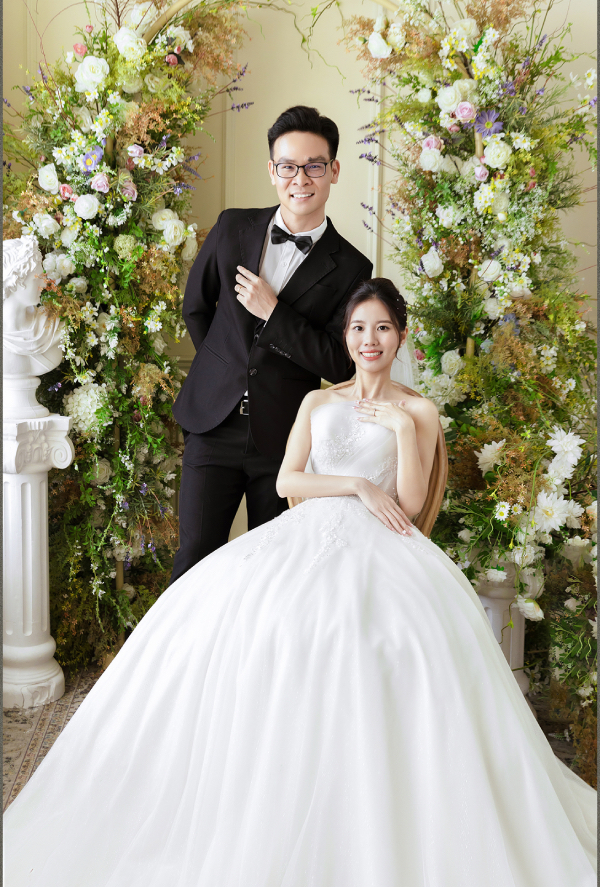
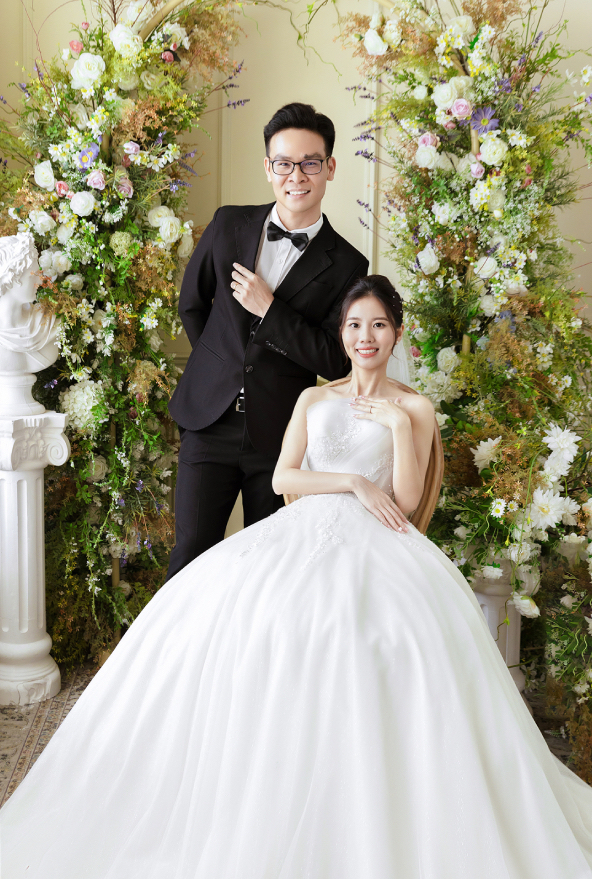
update

diff --git a/flutter_service_worker.js b/flutter_service_worker.js
@@ -4,8 +4,8 @@ const TEMP = 'flutter-temp-cache';
 const CACHE_NAME = 'flutter-app-cache';
 const RESOURCES = {
   "version.json": "961643e1794347654394bc9ce301c3ad",
-"index.html": "374eca92d2e11b28caa651ae958f8b34",
-"/": "374eca92d2e11b28caa651ae958f8b34",
+"index.html": "abbdbd453d43ea85151f2ba1e7af94f4",
+"/": "abbdbd453d43ea85151f2ba1e7af94f4",
 "CNAME": "ba9c0d3a643646bf22b8cea7f6e40133",
 "main.dart.js": "31475105a1cf899c11662672a96026b6",
 "flutter.js": "a85fcf6324d3c4d3ae3be1ae4931e9c5",
@@ -18,11 +18,14 @@ const RESOURCES = {
 ".git/ORIG_HEAD": "1167dd309fb1e1fefc487935df9a1709",
 ".git/config": "d6e0f053cf263d6b70e9ffb6627ea196",
 ".git/objects/92/8727b95cc90c4859fbdf2fc7ec668834670070": "b2a6c5a339dc36253af7ad6574da49ea",
+".git/objects/02/bc1f1e0b1ac5f427b7909b22cf39cc24241bce": "061809a41ebb6bc111f6233ca5487741",
 ".git/objects/ac/15598e1d40a23b50c9193f537a9e867f420ce2": "932a8b48ea65cb2c2908d5fef5b5eb29",
 ".git/objects/ad/97025017b4e41db92f855ba934337515b2089a": "432c3c691d3a14fcd976e2f656c4593a",
 ".git/objects/d0/b03da541907a0e92fddb02763dcd7ee433a947": "bb94fc34097442f6d0a3faaed2753dd8",
+".git/objects/bc/9c16fbdb467b7826d3cc5615646a9b611c8645": "28f9a20f47befdcd51357e7c7c0ebc93",
 ".git/objects/ae/a466f5fd16d231d1e82a301a2addb8f56315d8": "dde20aebc0ea540e788653fdd064b906",
 ".git/objects/e2/dcdcae971cb85ad1948e0473b9f1be5d248238": "32f1aace60653b7bc57888308cfcc56f",
+".git/objects/eb/df2bf3b774019c7aa18e2c23744f640070893d": "37a68fb85ef3f99cbbf26ee62ffa6a73",
 ".git/objects/ee/9ce656ec5c74b51966368c488b8477cfdcf252": "bcb35e2ce762fe7891f49722702bfb10",
 ".git/objects/c9/c631da375ae18bae9acc88d015654050b2afb4": "40ada6ed67e4212ce143aa7bf2ec14eb",
 ".git/objects/fd/28bef01570880d3395b7e0d2021926e640b42c": "18b3c5aadfd1ea0f9b52fbc624fe5610",
@@ -30,18 +33,27 @@ const RESOURCES = {
 ".git/objects/pack/pack-a6ade3d9ec6754b53d88945e8d0eef39a2f504f0.pack": "09df9f85f84b0997eedca773e5f0d41a",
 ".git/objects/pack/pack-a6ade3d9ec6754b53d88945e8d0eef39a2f504f0.idx": "68b8ea27a3bd068bfd2953e13e3d6ec8",
 ".git/objects/11/f7d32a385d322d3783e94bcb5f65046383a81a": "0814a06ed8ac004e8034c6874d560280",
+".git/objects/42/46d382c3ce28e4d67728a9db7dd7f7ebcd61db": "6591a0b139dadc0b15ca034d2b571984",
 ".git/objects/42/e03dc198dbc7fec8acf30e5de79bfd4b0abbc6": "03fa9a6749bb5529c115098eeb90a0d3",
 ".git/objects/87/f0737e4a0b5b00b6f391eed2310431fe1d5db0": "92ae55562305555afcdff4f426d528a7",
 ".git/objects/7e/83ca277cabca3f3610057457ff8323a26f4f2f": "780839bea24bc5c002d5806f6aabd842",
 ".git/objects/7e/6bbbdfd9bf8397d2a52ebed31b5dba6bad4985": "262e33fb7a58e029419dee2e08e9e425",
 ".git/objects/26/5612b5937754d06ddcd0bc1df5f929c5441c72": "88a35c3d4e88858903552977e2d780db",
+".git/objects/4d/8da0f48dbda29da04d330167ab07850b09a556": "2bcca7383d97ca7178a04b5169ae9662",
+".git/objects/75/c6e78f70f47928679d7febe0d8fa40780bd7a2": "5d733c898923c225899c291bf9cd1256",
+".git/objects/00/e17a54dcf74810915438910a0ecc4555275ac5": "cf23c291c979fd80d2de03c2aa1ce141",
 ".git/objects/00/492e3b0c6423664dc44c0041cadd29e253e902": "9bc1384d3a25185096ede519eb22f7b5",
 ".git/objects/91/483f9034620ebe41b45c81417ad9f818c80f4c": "a5c05f2dd46f86ececa5e64535dcef98",
 ".git/objects/62/d4923eb4291198f3371ebb146a3132c7ffe5bc": "d72f9598493361b8865c69f87ef426bb",
 ".git/objects/37/56b93c77ffe5795c5f49e0a7eb9fe897dd3148": "3df3d8eb74699a84cb4557ef49ffabbf",
+".git/objects/06/1cce3f2e0bc74f8ec932b039b874cb453d1bfa": "0606933127f3c3e1b435cc4df27c3a3c",
+".git/objects/99/b7561564fa7fc1010fa4e00f690c2bd734606c": "486843fe6e3a37e3f7d7d3a7eda476a2",
+".git/objects/64/7760274cd4f89e0ff77e5972a935af152d360b": "81705f9fa46715c74bcf572ec39057a7",
+".git/objects/90/be18c811175cb4f6ecab8da00515f82a54de39": "2f33a714dd24794f7aee74ccf0f26938",
 ".git/objects/a6/6410e9400328989b3595450253809dd0a0d245": "0bef5baa12592eff521e4a74e5e360f7",
 ".git/objects/a1/398b338084cbaf0e99d89cb6089715baa78a6d": "02dc4e91b5e7a3ec6ab241de1c601d92",
 ".git/objects/ea/895a4223dae62f80b7a3bacf34bdb8c119e175": "d330913f13ed341669b62b2ee44a550e",
+".git/objects/cc/5a7ba3265d2b73ee48a3d5e659c513c9d03200": "9ccd05edce4cf47292ed0a0f8ce7d4a0",
 ".git/objects/e6/4a072279a64f194083ecc3bd78610b8a915963": "ed6c7f9f7a74da670f760f73bed0211e",
 ".git/objects/fa/97d587a4a562b7ca7d1b82295a7611bbae48d2": "64cb95282f9764a8f775e3b88c763a0b",
 ".git/objects/48/05ae7c9e3b46018e5799c8eccdfcfbcb6369f8": "9a75df6f93d3f88ab749e1d50a7414a6",
@@ -53,10 +65,10 @@ const RESOURCES = {
 ".git/objects/8e/7eb6c48b67d20fcb52890ec98bde28c00bb6a7": "932b093ce31346e80d5aaeb50fbe1f4e",
 ".git/HEAD": "cf7dd3ce51958c5f13fece957cc417fb",
 ".git/info/exclude": "0aebccfd5866bfc3e7c8f625230c22f7",
-".git/logs/HEAD": "b63d8044a8748fa5792d14497b107908",
-".git/logs/refs/heads/main": "b63d8044a8748fa5792d14497b107908",
+".git/logs/HEAD": "d8268991c4060c160331a097ea1ceda3",
+".git/logs/refs/heads/main": "d8268991c4060c160331a097ea1ceda3",
 ".git/logs/refs/remotes/origin/HEAD": "6d305f7e6263cc16e8759b3f253e1e36",
-".git/logs/refs/remotes/origin/main": "756e113867502536f04eb051c60f502c",
+".git/logs/refs/remotes/origin/main": "a1aff91f16a51110c2ebaa81e54a3f6f",
 ".git/description": "a0a7c3fff21f2aea3cfa1d0316dd816c",
 ".git/hooks/commit-msg.sample": "579a3c1e12a1e74a98169175fb913012",
 ".git/hooks/pre-rebase.sample": "56e45f2bcbc8226d2b4200f7c46371bf",
@@ -71,10 +83,10 @@ const RESOURCES = {
 ".git/hooks/pre-push.sample": "2c642152299a94e05ea26eae11993b13",
 ".git/hooks/update.sample": "647ae13c682f7827c22f5fc08a03674e",
 ".git/hooks/push-to-checkout.sample": "c7ab00c7784efeadad3ae9b228d4b4db",
-".git/refs/heads/main": "8acd8d7efd29198511442f721db5917a",
+".git/refs/heads/main": "91554bf78b7f5727de0992e3890c4b32",
 ".git/refs/remotes/origin/HEAD": "98b16e0b650190870f1b40bc8f4aec4e",
-".git/refs/remotes/origin/main": "8acd8d7efd29198511442f721db5917a",
-".git/index": "bcf7e2ee1a39687d00fefe42abe8a845",
+".git/refs/remotes/origin/main": "91554bf78b7f5727de0992e3890c4b32",
+".git/index": "58eb831b0da87850e41ca44578c169e9",
 ".git/packed-refs": "dc9751a00b5db63e17dc26a648eb23c3",
 ".git/COMMIT_EDITMSG": "01eb2c11c2685e04a0e3b0556549b914",
 ".git/FETCH_HEAD": "02f033df0d9aa41f5e83b847d68aeb5d",
@@ -101,7 +113,7 @@ const RESOURCES = {
 "assets/assets/images/img3.jpg": "726c7b5f5e6307dd10dd3c8e33c14419",
 "assets/assets/images/heart2.png": "f5ce19778d7e030ad94b4e9e4c3ed7a7",
 "assets/assets/images/heart3.png": "02663ef9956eb2f601dae9baac0861cb",
-"assets/assets/images/img2.jpg": "a51fb77136b4dd14cb5e09b2129c3600",
+"assets/assets/images/img2.jpg": "a9dd9139344ea7837122da5c93a48b53",
 "assets/assets/images/vcb.jpg": "489581714874db659ef16f9385ea0109",
 "assets/assets/images/bg2.png": "1ceabceb01a66126a32da84a76aa27e7",
 "assets/assets/images/img1.jpg": "331942426e75e39827d6ac3292dea193",

diff --git a/index.html b/index.html
@@ -34,7 +34,7 @@
 
     <script>
     // The value below is injected by flutter build, do not touch.
-    var serviceWorkerVersion = '3400204964';
+    var serviceWorkerVersion = '23397347';
   </script>
     <!-- This script adds the flutter initialization JS code -->
     <script src="flutter.js" defer></script>
